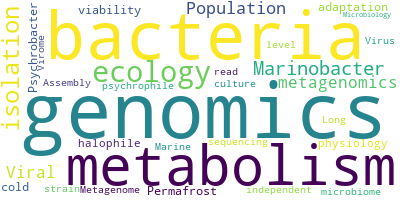
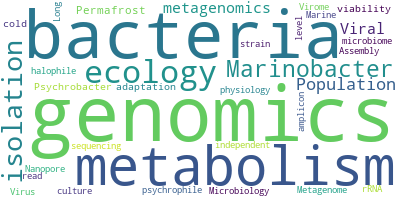
Karstetal

diff --git a/README.md b/README.md
@@ -42,6 +42,8 @@ Notes (author, year, journal in file header) on readings.  Top of each note docu
      * This is an early review of culture-independent studies of bacterial diversity/populations in the environment. 
 * [Truongnetal2017 - Microbial strain-level population structure and genetic diversity from metagenomes](https://github.com/zscooper/ReadingList/tree/master/papers/Metagenomics/Population Genetics/Truongnetal2017.md) 
      * Development and application of StrainPhlAn, a tool for differentiating prokaryotic strains from metagenomes 
+* [Karstetal - Enabling high-accuracy long-read amplicon sequences using unique molecular identifiers and Nanopore sequencing (pre-print)](https://github.com/zscooper/ReadingList/tree/master/papers/Metagenomics/Population Genetics/Karstetal.md) 
+     * Pre-print of a methods development for producing high accuracy consensus sequences from amplicons generated using Oxford Nanopore MinION sequencing. 
 * [WarwickDugdaleetal2019 - Long-read viral metagenomics captures abundant and microdiverse viral populations and their niche-defining genomic islands](https://github.com/zscooper/ReadingList/tree/master/papers/Metagenomics/Population Genetics/WarwickDugdaleetal2019.md) 
      * First use of combined long and short read metaviromics to produce data useful for understanding microdiversity within a viral population 
 

diff --git a/papers/Metagenomics/Population Genetics/Karstetal.md b/papers/Metagenomics/Population Genetics/Karstetal.md
@@ -1,0 +1,23 @@
+07/18/19
+## Authors:
+Karst, S.M., Ziels, R.M., Kirkegaard, R.H., and M. Albertsen
+## Title:
+Enabling high-accuracy long-read amplicon sequences using unique molecular identifiers and Nanopore sequencing (pre-print)
+## Keywords:
+Nanopore, amplicon, rRNA
+## Geographic Coverage
+N/A
+## Field Dates:
+N/A
+## Significance:
+Pre-print of a methods development for producing high accuracy consensus sequences from amplicons generated using Oxford Nanopore MinION sequencing.
+
+## Notes:
+This is a pre-print from BioRxiv.
+
+A library preparation and sequence processing method is developed for generating single molecule consensus sequences using unique molecular identifiers (UMIs).
+
+Error rates associated with Nanopore or PacBio are driven down to 0.03% with this method.
+
+Concluding hypotheses
+* More informative data can be generated from reliably sequencing long read amplicons
